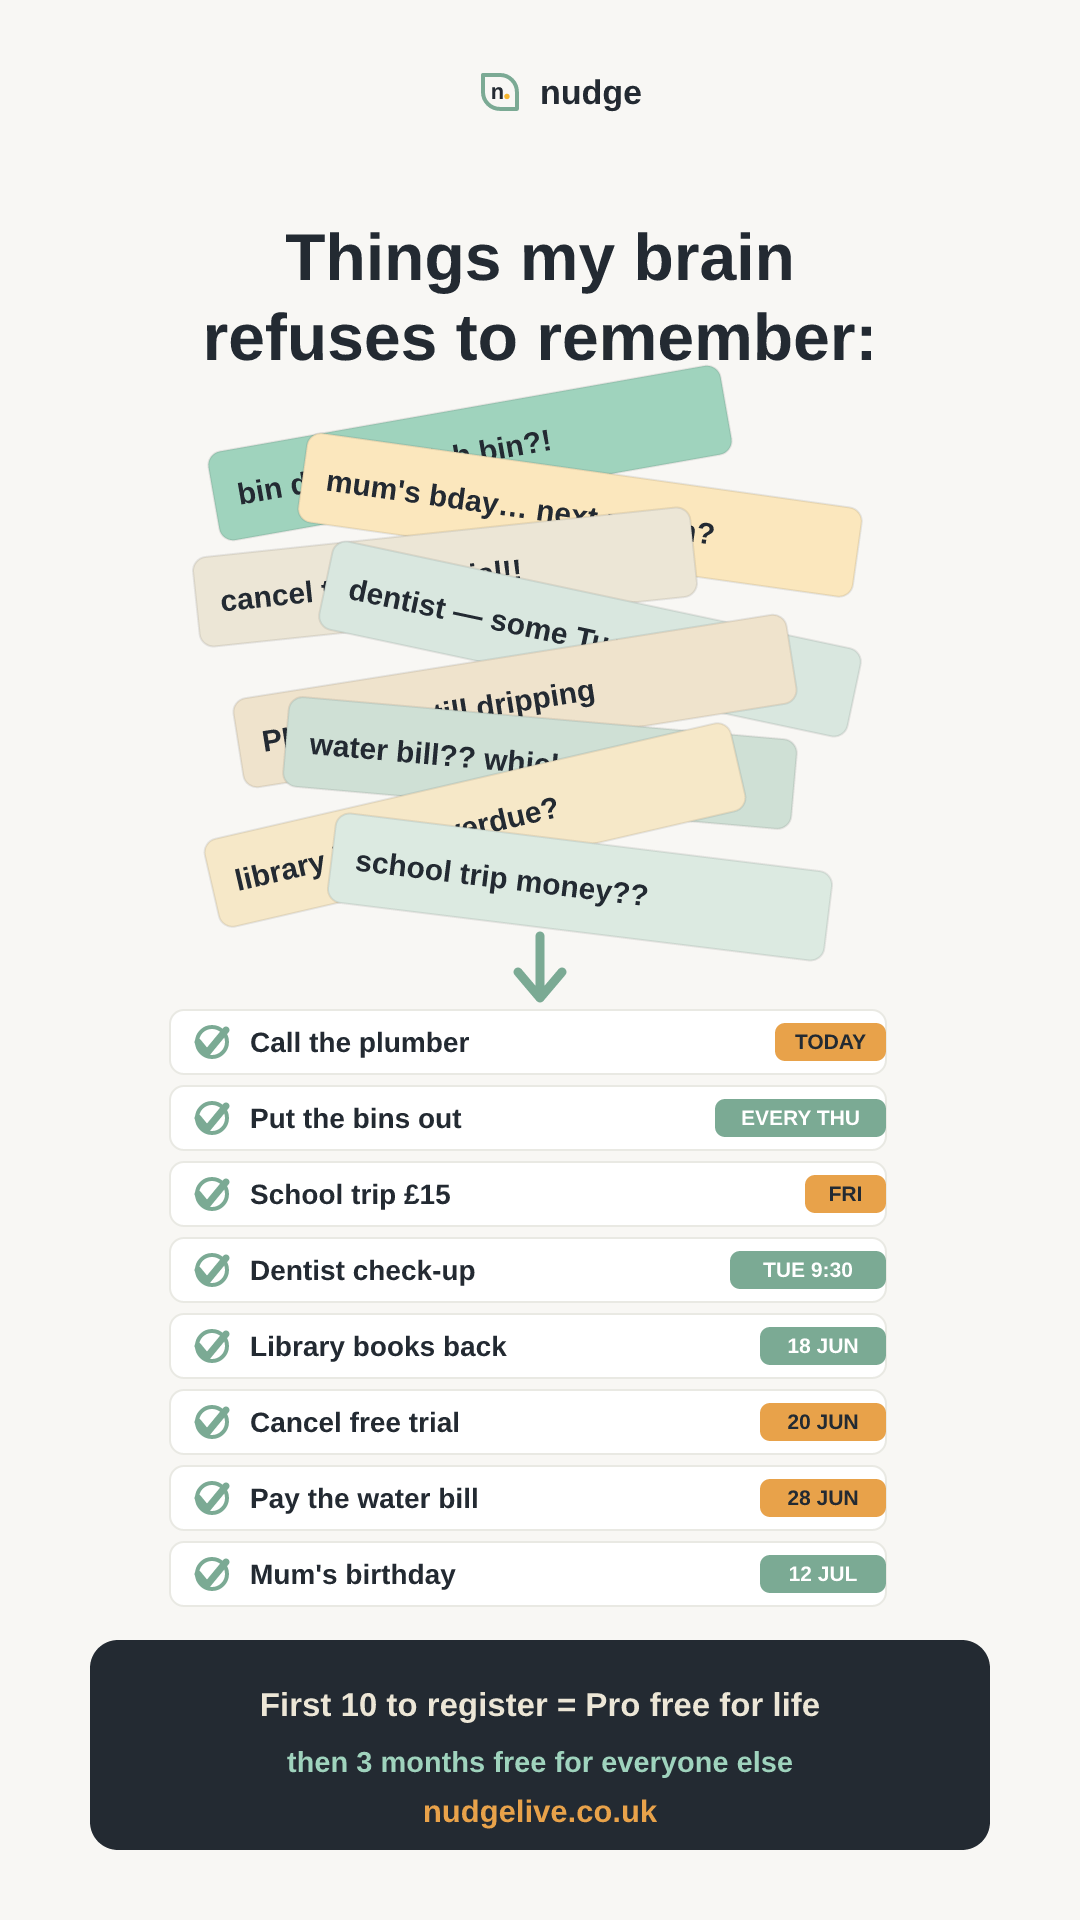
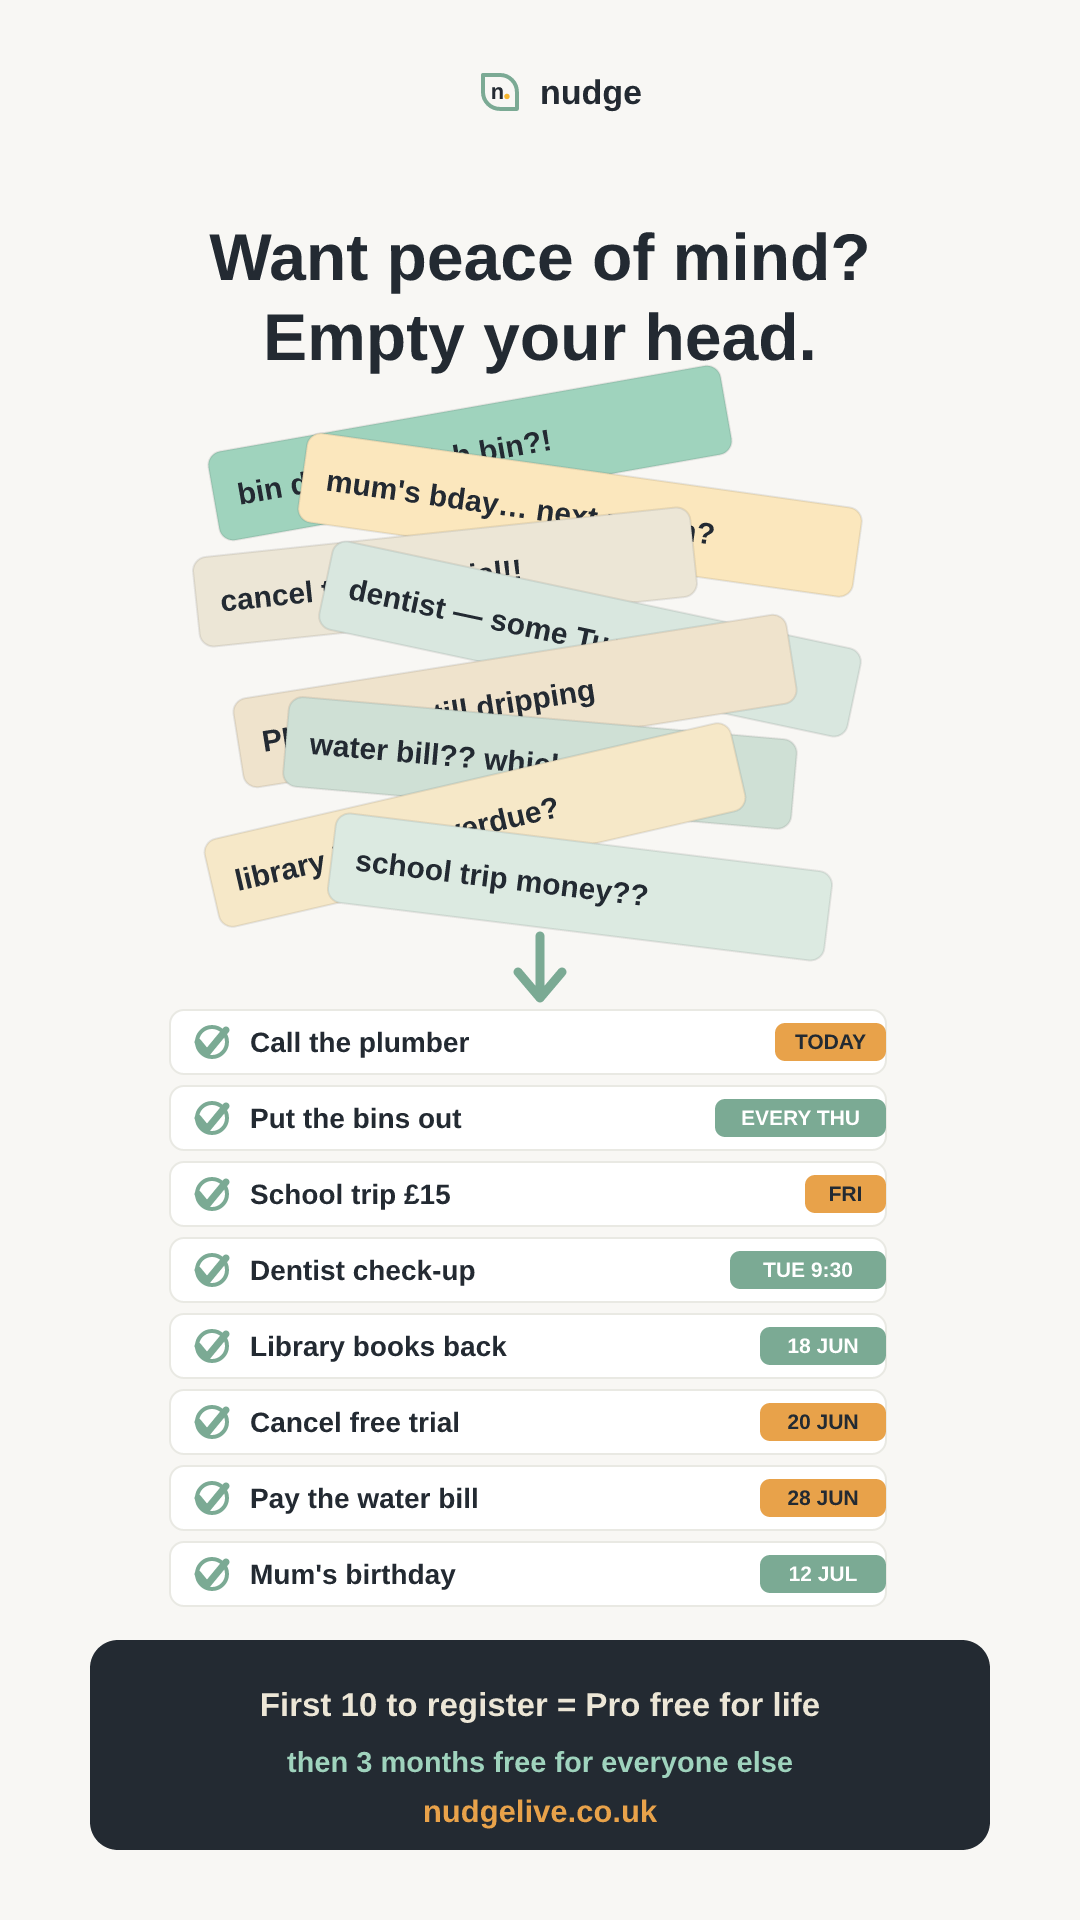
Day 2: tailor to trending 'find peace of mind' (TikTok search insights)
Search insights show 'find peace of mind' at 288K +69%. Put the exact phrase
on-screen in the hook ('Want peace of mind? Empty your head.') for TikTok
search, and rework the caption + hashtags (#peaceofmind #findpeaceofmind)
around it. 8→8 messy/sorted content unchanged. Cover + clip regenerated.

Changed region(s): [[0.1833, 0.125, 0.7944, 0.1875]]

diff --git a/scripts/gen-social.ts b/scripts/gen-social.ts
@@ -387,7 +387,7 @@ const DAYS: Day[] = [
   {
     n: 2,
     slug: "brain-forgets",
-    hook: ["Things my brain", "refuses to remember:"],
+    hook: ["Want peace of mind?", "Empty your head."],
     input: {
       title: "MY HEAD, 9PM",
       lines: [

diff --git a/SOCIAL_CALENDAR.md b/SOCIAL_CALENDAR.md
@@ -184,10 +184,11 @@ Every day: **reshare the post + link sticker.** Then by weekday:
 > TikTok/Reel) and a static `dayNN-cover.png` (Facebook image / TikTok cover).
 > Regenerate or tweak copy via `npx tsx scripts/gen-social.ts`.
 
-**Day 2 — TikTok**
-- Hook: "Things my brain refuses to remember." Rapid list (bin day, dentist, birthday, bill) → tasks land in Nudge.
+**Day 2 — TikTok** *(tailored to the trending "find peace of mind" search — 288K, +69%; the exact phrase is on-screen in the hook for TikTok search)*
+- Hook (on-screen): "Want peace of mind? Empty your head." → 8 messy brain-dumps → 8 dated/recurring reminders, soonest-first.
+- Say the phrase out loud too ("this is how I found some peace of mind") — TikTok weights spoken + on-screen + caption keyword matches.
 - Assets: `day02-brain-forgets.svg` · `day02-cover.png`
-- Caption: *"My brain at 9pm: a junk drawer. Now I just dump it on Nudge and get a nudge before each one. 🎁 First 10 to register interest = Pro free for life → nudgelive.co.uk #adhdtok #lifeadmin #mentalload"*
+- Caption: *"Want peace of mind? It starts with getting it ALL out of your head. Brain-dump the chaos and Nudge turns each one into a reminder — even the recurring stuff 🔁 (bin day every Thursday, sorted). 🎁 First 10 to register interest = Pro free for life → nudgelive.co.uk #peaceofmind #findpeaceofmind #mentalload #adhdtok #lifeadmin"*
 
 **Day 3 — TikTok + 🅵**
 - Hook: "Your camera roll is a to-do list in disguise." Screenshots → Nudge reads them.